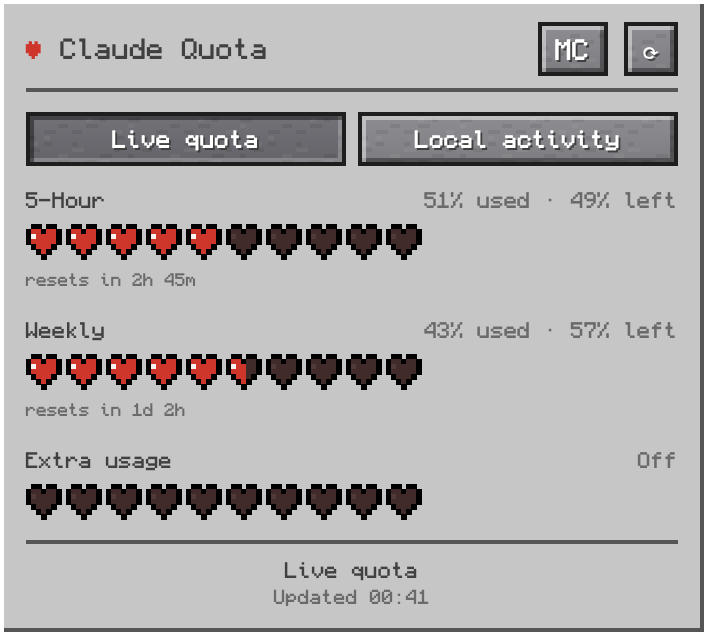
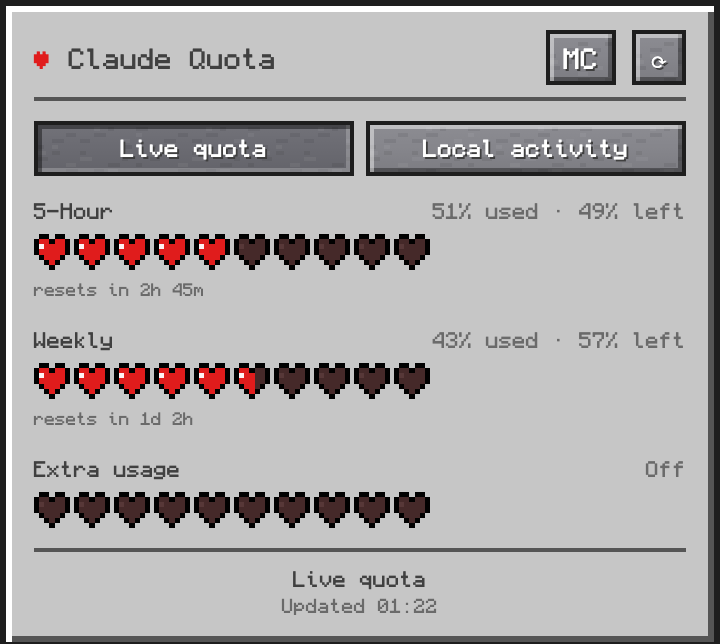
Tauri: regenerate all 6 theme×tab screenshots via headless showcase
Capture every theme × tab through the ?mock showcase path with Chrome
headless (no Keychain, deterministic), and pin the panel width in mock mode
so it renders correctly in a plain browser.

Changed region(s): [[0.0, 0.0, 1.0, 1.0], [0.5938, 0.5111, 0.75, 0.5411]]

diff --git a/tauri/src/main.ts b/tauri/src/main.ts
@@ -18,6 +18,8 @@ import "./styles.css";
 // force the view. Used by showcase.html and for screenshots.
 const params = new URLSearchParams(location.search);
 const MOCK = params.has("mock");
+// In the browser there's no Tauri window to fix the width, so pin it to match.
+if (MOCK) document.documentElement.style.width = "360px";
 
 const POLL_MS = 30 * 60 * 1000; // refresh every 30 min, like the Swift app
 
